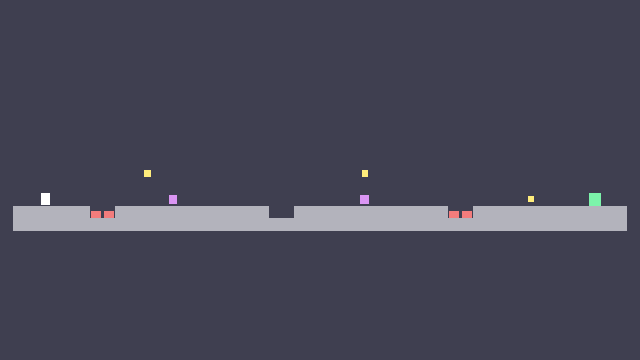
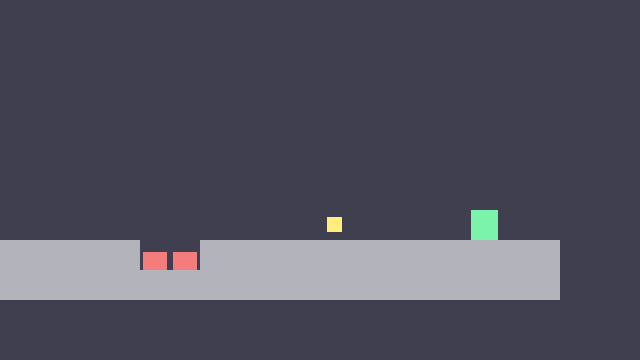
docs: v1.0.112 — sprite authoring first-class support (friction-2 P1 resolved)

Changed region(s): [[0.0, 0.5194, 1.0, 0.8556], [0.5625, 0.4583, 0.5938, 0.4889], [0.2188, 0.4583, 0.25, 0.4889]]

diff --git a/crates/voltex_renderer_ecs/CODEMAP.md b/crates/voltex_renderer_ecs/CODEMAP.md
@@ -20,9 +20,9 @@ ECS World ↔ voltex_renderer 브릿지. C0a 의 `MeshHandle` / `MaterialHandle`
 | `BasicRenderer::new(device, queue, target_format, max_entities)` | `basic_renderer.rs` | mesh_shader.wgsl pipeline 소유 |
 | `BasicRenderer::render(queue, encoder, target_view, depth_view, clear_color, &mut World, &RenderAssets, view_proj, cam_pos, light)` | `basic_renderer.rs` | 메시 패스(colored Blinn-Phong 또는 `set_pbr_enabled` 시 PBR) + 스킨드 패스(colored 또는 PBR) + 스프라이트/파티클/디버그 라인 패스. PBR 시 메시·스킨드 모두 Cook-Torrance |
 | `BasicRenderer::set_point_lights(&queue, &[PointLight])` / `set_shadows(bool)` / `set_debug_lines(&queue, &[LineVertex])` | `basic_renderer.rs` | 매 프레임 호출(`&self`). 디버그 라인은 `LineList` depth-tested 마지막 패스 (MAX 8192 verts, 초과 drop) |
-| `Sprite { texture, size, color, uv_rect }` + `Sprite::solid` / `textured` / `with_uv_rect(rect)` / `set_sheet_frame(cols,rows,index)` | `sprite.rs` | 카메라-facing 빌보드 컴포넌트. `WorldTransform`+`Sprite` 엔티티를 mesh 패스 후 alpha-blended·depth-tested(no write) 빌보드로 렌더. `uv_rect`로 스프라이트시트/아틀라스 프레임 선택. 카메라 right/up은 inverse VP에서 복원. 카메라 거리 기준 back-to-front 정렬(투명도 합성 순서 무관). MAX 256/frame |
+| `Sprite { texture, size, color, uv_rect, flip_x }` + `Sprite::solid` / `textured` / `with_uv_rect(rect)` / `set_sheet_frame(cols,rows,index)` / `effective_uv_rect()` | `sprite.rs` | 카메라-facing 빌보드 컴포넌트. `WorldTransform`+`Sprite` 엔티티를 mesh 패스 후 alpha-blended·depth-tested(no write) 빌보드로 렌더. `uv_rect`로 스프라이트시트/아틀라스 프레임 선택, `flip_x`는 렌더 시점 u-스왑(표시 전용 — 애니 시스템과 충돌 없음, 렌더러는 `effective_uv_rect()` 사용). 카메라 right/up은 inverse VP에서 복원. 카메라 거리 기준 back-to-front 정렬(투명도 합성 순서 무관). MAX 256/frame |
 | `Particle { velocity, acceleration, age, lifetime, start/end_size, start/end_alpha }` + `Particle::new(vel,lifetime,size)` / `spawn_particle(world,pos,color,particle)` / `update_particles(&mut World, dt)` | `particle.rs` | CPU 파티클(=Transform+Sprite+Particle 엔티티). update가 이동·크기/알파 보간·수명 만료 despawn. RuntimeApp tick이 `update_particles` 자동 호출 |
-| `SpriteAnimation { cols, rows, frame_count, fps, time, playing, looping }` + `SpriteAnimation::new(cols,rows,frames,fps)` / `update_sprite_animations(&mut World, dt)` | `sprite.rs` | 스프라이트시트 애니메이션. Sprite+SpriteAnimation 엔티티의 `uv_rect`를 시간에 따라 프레임 진행(loop=wrap, else clamp+stop). RuntimeApp tick 자동 호출 |
+| `SpriteAnimation { cols, rows, first_frame, frame_count, fps, time, playing, looping }` + `SpriteAnimation::new(cols,rows,frames,fps)` / `SpriteAnimation::clip(cols,rows,first,frames,fps)` / `update_sprite_animations(&mut World, dt)` | `sprite.rs` | 스프라이트시트 애니메이션. Sprite+SpriteAnimation 엔티티의 `uv_rect`를 시간에 따라 프레임 진행(loop=wrap, else clamp+stop; `first_frame` 오프셋으로 한 시트에 다중 클립). RuntimeApp tick 자동 호출 |
 | `PrimitiveMesh` (`Cube`/`Plane`/`Quad`/`Sphere`) + `cube`/`plane`/`quad`/`sphere`/`sphere_default` / `aabb()` / `geometry()` | `renderable.rs` | 값-타입 모양 선언(GPU 무관). `Component` → 씬 직렬화. 빌트인 generator 위임 |
 | `MaterialDesc(MaterialUniform)` + `color(rgba)` / `pbr(rgba,metallic,roughness)` | `renderable.rs` | 값-타입 머티리얼 선언. `Component` → 씬 직렬화 |
 | `materialize_renderables(&mut World, &mut RenderAssets, &Device)` | `renderable.rs` | `PrimitiveMesh`/`MaterialDesc` → GPU 메시/머티리얼 + `MeshHandle`/`MaterialHandle`/`Bounds` 부착. **dedup**(동일 프리미티브·머티리얼 공유) + **멱등**(resolve 된 엔티티 skip). RuntimeApp 이 gpu_init 직후 자동 호출 |

diff --git a/CHANGELOG.md b/CHANGELOG.md
@@ -10,6 +10,37 @@ recent on top. v0.x entries are organised by Cycle (see
 
 ---
 
+## v1.0.112 — 2026-08-09 — 2D 스프라이트 저작 1급 지원 (friction-2 P1 3건 해소)
+
+leap 도그푸딩 직후 후속 사이클 — `docs/dogfood-friction-2.md` P1 전건 해소 +
+leap 마이그레이션으로 실검증. 설계:
+`docs/superpowers/specs/2026-08-09-sprite-authoring-friction-design.md`.
+
+### Additive
+
+- **voltex_renderer_ecs `SpriteAnimation::clip`** — `first_frame` 필드 신설
+  (기본 0, `new()` 호환 유지). 한 시트에 여러 클립(idle/run/jump)을 담고
+  오프셋으로 선택. wrap/clamp은 클립 내부 기준. 단위 +2.
+- **voltex_renderer_ecs `Sprite::flip_x`** — 표시 전용 좌우 반전 플래그.
+  렌더러가 `effective_uv_rect()`(u-스왑)를 샘플하고 `uv_rect`는 애니
+  시스템이 정방향 소유 — 종전 uv 스왑 워크어라운드의 "매 프레임 재적용 +
+  tick 순서 지식" 요구가 사라짐. 단위 +1.
+- **voltex_capture `render_world_ortho`** — `render_world`의 직교 변형
+  (`ortho_height` = 런타임 `with_orthographic`과 동일 의미). 기존
+  `render_world`는 무변경 (공통부는 내부 헬퍼로 추출).
+
+### Changed
+
+- **games/voltex_leap** — 새 API 도그푸딩: 플레이어 시트 3장 → 단일 8×1
+  (`AnimState::clip()` 전환, 텍스처 교체 제거), facing 반전은
+  `sprite.flip_x` 한 줄, visual 회귀는 게임과 동일한 직교 구도
+  (`render_world_ortho`, 스크린샷 교체). 스모크 런 그린.
+
+### Fix
+
+- **voltex_audio** — 테스트의 `drop(closure)`가 clippy 1.94
+  `drop_non_drop`에 걸리던 것을 블록 스코프로 교체 (동작 불변).
+
 ## v1.0.111 — 2026-08-09 — 도그푸딩 게임 2편: Voltex Leap (2D 스택) + OGG 실검증
 
 ### Additive — `games/voltex_leap` (2D 사이드뷰 플랫포머)

diff --git a/docs/dogfood-friction-2.md b/docs/dogfood-friction-2.md
@@ -7,8 +7,17 @@
 
 ## 현재 상태 요약
 
-**2026-08-09: 게임 완성 시점 6건 (P1 3 + P2 3), 전건 미해소.** 이번엔 진행을
-막는 마찰은 없었다 — 전부 우회 가능했고, 우회 비용이 곧 P 등급이다.
+**2026-08-09: 게임 완성 시점 6건 (P1 3 + P2 3) → 같은 날 후속 사이클에서 P1
+3건 해소, P2 3건 잔여.** 진행을 막는 마찰은 없었다 — 전부 우회 가능했고,
+우회 비용이 곧 P 등급이다. 해소 설계:
+`docs/superpowers/specs/2026-08-09-sprite-authoring-friction-design.md`.
+
+- ~~#1 SpriteAnimation 프레임 오프셋 부재~~ — **해소** (`SpriteAnimation::clip(cols, rows, first_frame, frames, fps)` + `first_frame` 필드. leap이 플레이어 단일 8×1 시트로 마이그레이션해 실검증)
+- ~~#2 Sprite 좌우 반전 1급 지원 부재~~ — **해소** (`Sprite::flip_x` 표시 전용 플래그 — 렌더러가 `effective_uv_rect()`로 u-스왑 적용, `uv_rect`는 애니 시스템이 정방향 소유. 매 프레임 재적용/tick 순서 의존 소멸)
+- ~~#3 render_world 직교 미지원~~ — **해소** (`voltex_capture::render_world_ortho(..., ortho_height)` — leap visual 회귀가 게임과 동일한 직교 구도로 전환)
+- #4 2D 타일 충돌 헬퍼 부재 — P2 잔여
+- #5 타일맵 배치 렌더 부재 — P2 잔여
+- #6 빌보드 z-rot 불가 — P2 잔여 (관찰)
 
 참고 — 마찰이 *아니었던* 것 (지난 사이클 개선의 실사용 검증):
 `with_gpu_init`(텍스처 업로드 훅), `with_asset_root`, `with_audio_files`

diff --git a/docs/STATUS.md b/docs/STATUS.md
@@ -173,6 +173,22 @@
 
 v1.0.9 부터는 **서비스 배포 완성도** 로드맵 (`docs/superpowers/specs/2026-05-21-service-readiness-roadmap.md`) 기준으로 진행.
 
+### 2026-08-09 — 2D 스프라이트 저작 1급 지원 (v1.0.112)
+
+leap 도그푸딩 직후 같은 날 후속 사이클. friction-2 **P1 3건 전부 해소** +
+leap을 새 API로 마이그레이션해 실검증 (P2 3건 잔여 — 로그 참고).
+
+- **`SpriteAnimation::clip(cols, rows, first_frame, frames, fps)`** — 한
+  시트에 다중 클립. leap 플레이어가 단일 8×1 시트(idle 0-1/run 2-5/jump 6)로
+  전환, 상태 변경 = 클립 교체만.
+- **`Sprite::flip_x`** — 표시 전용 반전 (렌더러가 `effective_uv_rect()`
+  샘플). uv 스왑 워크어라운드의 tick 순서 의존 소멸.
+- **`voltex_capture::render_world_ortho`** — 직교 캡처. leap visual 회귀가
+  게임 실제 구도(뷰 높이 12)로 픽셀 단언 + 스크린샷 교체.
+- 검증: renderer_ecs 단위 +3, leap 전 스위트 + GPU visual + 스모크 런,
+  workspace build/clippy(-D warnings)/test 그린. CODEMAP 2건 갱신.
+- 부수: voltex_audio 테스트 clippy 1.94 `drop_non_drop` 정리.
+
 ### 2026-08-09 — 도그푸딩 게임 2편: Voltex Leap (v1.0.111)
 
 `games/voltex_leap` — 2D 사이드뷰 플랫포머. 2D 스택(v1.0.60)의 첫 실게임

diff --git a/crates/voltex_capture/CODEMAP.md b/crates/voltex_capture/CODEMAP.md
@@ -20,6 +20,7 @@ Headless offscreen 렌더링 + PNG 캡처. 윈도우 없는 환경에서 *실제
 | `ImageStats::analyze(&[u8])` / `looks_blank()` | `lib.rs` | blank/단색 프레임 자동 탐지 |
 | `scene::render_single_cube` / `render_cube_grid` / `render_pbr_grid` | `scene.rs` | `(gpu, w, h) -> Vec<u8>` |
 | `scene::render_world(gpu, w, h, &mut World, cam_pos, yaw, pitch) -> Vec<u8>` | `scene.rs` | 외부 게임 crate가 자기 씬을 픽셀 검증하는 공개 진입점 (voltex_depths 도그푸딩용). 고정 라이트/FOV/1024 entity 상한 — doc 주석 참고 |
+| `scene::render_world_ortho(gpu, w, h, &mut World, cam_pos, yaw, pitch, ortho_height) -> Vec<u8>` | `scene.rs` | `render_world`의 직교 변형 — 런타임 `with_orthographic`과 동일 의미의 뷰 높이. 2D 게임이 실제 화면 구도로 픽셀 검증 (voltex_leap 도그푸딩용) |
 | bin `capture` | `bin/capture.rs` | `cargo run -p voltex_capture --bin capture [out_dir]` |
 
 ## 의존성

diff --git a/README.md b/README.md
@@ -5,7 +5,7 @@
 > 스크립팅, 멀티 OS 빌드 파이프라인까지 제공한다. 자세한 카운트와 정책은
 > 아래 "의존성 정책" 섹션 참고.
 
-![status: v1.0.111](https://img.shields.io/badge/status-v1.0.111-brightgreen)
+![status: v1.0.112](https://img.shields.io/badge/status-v1.0.112-brightgreen)
 ![clippy: 0 warnings](https://img.shields.io/badge/clippy-0%20warnings-brightgreen)
 ![audit: 0 vulnerabilities](https://img.shields.io/badge/cargo--audit-0%20vulnerabilities-brightgreen)
 ![coverage: 82%](https://img.shields.io/badge/coverage-82%25%20lib-brightgreen)
